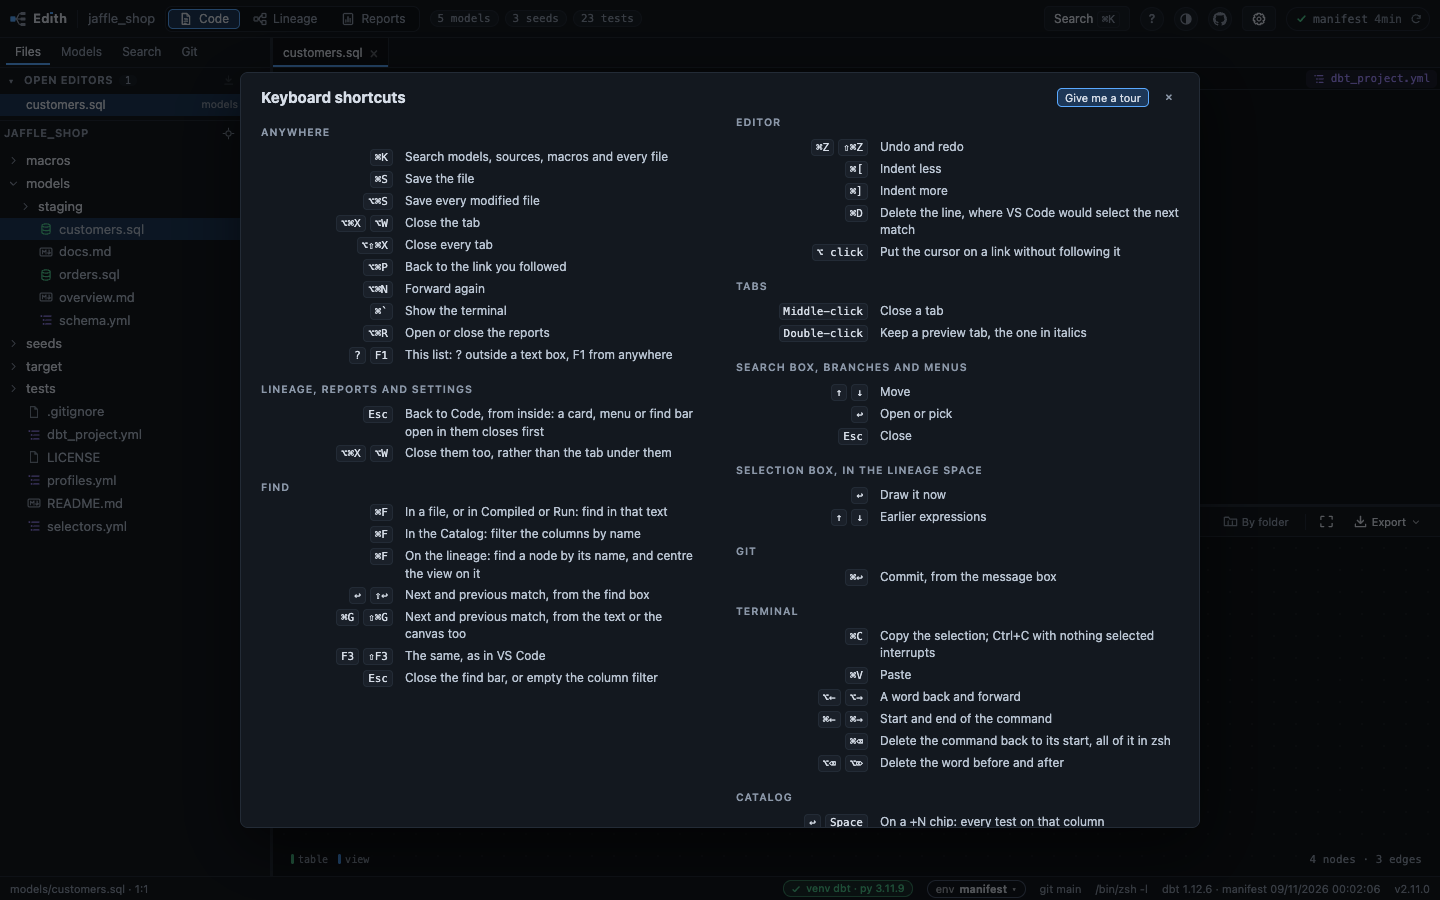
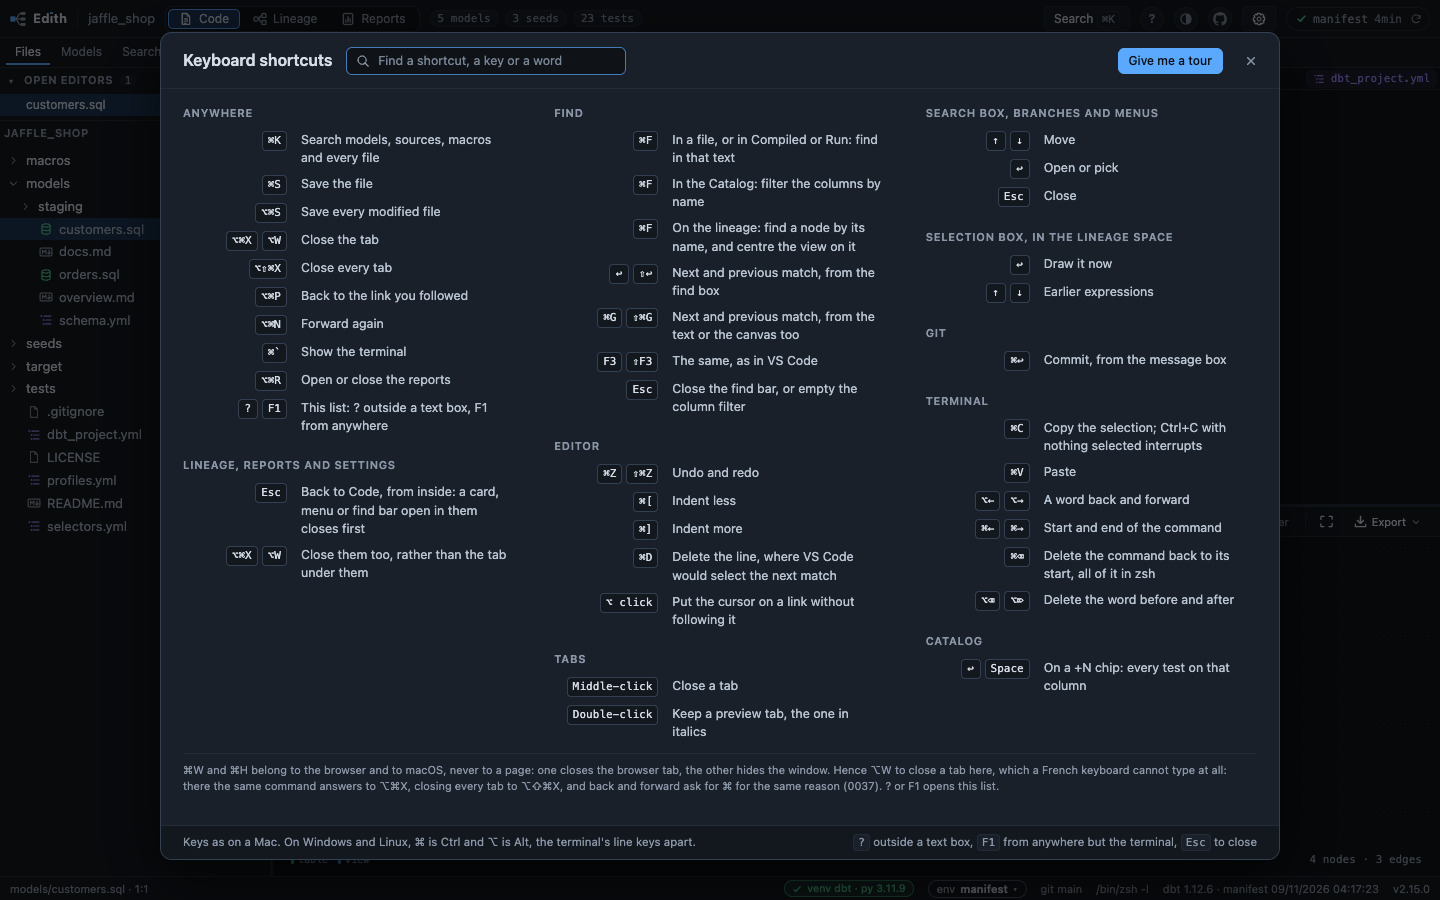
Show the shortcut list as a sheet in the window (#184)
The shortcut list was a box at most 84% of the window's height, which
cut its last group at the bottom, with two columns of keys, no way to
find one, and a long paragraph under them. It is now the sheet the
design draws: from under the top bar to above the status bar, its title,
a find box and **Give me a tour** held at the top, the groups in three
columns that scroll on their own, and a footer strip saying which keys
it draws. Typing filters the list.

## What changes for someone using it

| | Before | Now |
| --- | --- | --- |
| The sheet | 960px wide, at most 84% of the window high, its last rows cut | as wide as 1120px, from 32px under the top to 40px above the bottom; the head and the footer stay, the groups scroll between them |
| Finding a key | reading the list | a find box, focused when the list opens: a row stays when its words, its keys or its group's title hold what is typed, the first hit in its words marked; "No shortcut says “…”." when nothing does |
| The groups | two columns | three on a Mac, two on Windows and Linux, where the keys are written out (`Ctrl+Backspace`) |
| A key | a small flat chip | the design's chip: 20px high, bordered, on the sheet's own colour |
| Give me a tour | a small outlined button | the filled button of the design, beside the find box |
[…]

Changed region(s): [[0.0938, 0.0311, 0.9062, 0.9956], [0.9062, 0.9644, 0.9375, 0.9956]]

diff --git a/web/app.js b/web/app.js
@@ -20272,6 +20272,47 @@ function termLineRows(os) {
   return [];
 }
 
+/* What the list shows for what is typed in its find box. A row stays when its
+   text, one of its keys, or its group's title holds the query, whatever the
+   case; a group's title keeps all of its rows. A key is found by its label as
+   this machine draws it (`label`) and by its modifiers spelled out, as they are
+   said aloud: Cmd, Command and Option on a Mac, where the glyphs cannot be
+   typed, and Ctrl and Alt elsewhere, plus the key's own name (Enter, and Return
+   beside it on a Mac; ArrowUp, Backspace, Escape). Those are matched from the
+   start of a word, never inside one: "man" must not keep every Cmd row through
+   Command. keyCombo's own `Mod` and `+` are not searched, since they are in
+   nearly every row and hit none in particular. Only the first hit in a row's
+   text is marked, split into the parts before, at and after it: a key or a
+   title hit marks nothing. A blank query keeps everything. */
+function filterShortcuts(sheet, query, label, mac) {
+  const q = query.trim().toLowerCase();
+  // A French Mac's keys print alt, not the glyph (0037).
+  const said = mac
+    ? { Mod: 'cmd command', Alt: 'option alt', Shift: 'shift', Ctrl: 'control' }
+    : { Mod: 'ctrl', Alt: 'alt', Shift: 'shift', Ctrl: 'ctrl' };
+  const starts = (words) => words.split(' ').some((w) => w.startsWith(q));
+  const out = [];
+  for (const group of sheet) {
+    const titleHit = !!q && group.title.toLowerCase().includes(q);
+    const rows = [];
+    for (const [combos, what] of group.keys) {
+      const keys = combos.map((c) => label(c));
+      const at = q ? what.toLowerCase().indexOf(q) : -1;
+      const keyHit = !!q && combos.some((c, i) => {
+        const parts = c.split('+');
+        const name = parts.pop().toLowerCase();
+        return keys[i].toLowerCase().includes(q) || starts(name + (mac && name === 'enter' ? ' return' : ''))
+          || parts.some((m) => starts(said[m] || ''));
+      });
+      if (q && at < 0 && !keyHit && !titleHit) continue;
+      rows.push(at < 0 ? { keys, a: what, m: '', b: '' }
+        : { keys, a: what.slice(0, at), m: what.slice(at, at + q.length), b: what.slice(at + q.length) });
+    }
+    if (rows.length) out.push({ title: group.title, rows });
+  }
+  return out;
+}
+
 /* Whether a key pressed here is text: a box, the editor, the terminal. `?` is
    a shortcut only outside all three. */
 function isTyping(el) {
@@ -20288,8 +20329,13 @@ function toggleShortcuts() {
   if (built && !built.classList.contains('hidden')) return closeShortcuts();
   const box = built || buildShortcuts();
   S.keysReturn = document.activeElement;
+  // It opens on every shortcut, whatever was searched for last time.
+  const find = box.querySelector('.keys-find input');
+  find.value = '';
+  // Shown before it is drawn: a hidden box has no scroll to put back to the top.
   box.classList.remove('hidden');
-  box.querySelector('.keys-box').focus();
+  paintShortcuts(box);
+  find.focus();
 }
 
 /* Focus goes back to where the keys were typed, the editor usually. */
@@ -20313,36 +20359,39 @@ function buildShortcuts() {
   panel.setAttribute('aria-label', 'Keyboard shortcuts');
   const head = document.createElement('div');
   head.className = 'keys-head';
+  // Typing redraws the groups only: the head and the foot stay as they are, so
+  // the caret does not leave the box.
+  const find = document.createElement('label');
+  find.className = 'keys-find';
+  const input = document.createElement('input');
+  input.type = 'text';
+  input.placeholder = 'Find a shortcut, a key or a word';
+  input.spellcheck = false;
+  input.setAttribute('aria-label', 'Find a shortcut');
+  input.addEventListener('input', () => paintShortcuts(box));
+  find.append(strokeIcon('0 0 16 16', 'keys-ico', ['M7 2.25a4.75 4.75 0 1 0 0 9.5 4.75 4.75 0 0 0 0-9.5z', 'M10.5 10.5l3.5 3.5']), input);
   const close = document.createElement('button');
-  close.className = 'icon';
-  close.textContent = '×';
+  close.type = 'button';
+  close.className = 'keys-x';
   close.title = `Close (${keyLabel('Escape', IS_MAC)})`;
+  close.setAttribute('aria-label', 'Close');
+  close.append(strokeIcon('0 0 16 16', 'keys-ico', ['M4 4l8 8M12 4l-8 8']));
   close.addEventListener('click', closeShortcuts);
   // The tour lives here, where someone looking for what the page can do looks (0074).
   const tour = document.createElement('button');
   tour.type = 'button';
-  tour.className = 'btn sm primary';
+  tour.className = 'btn primary';
   tour.textContent = 'Give me a tour';
   tour.title = 'What each part of the page is for, on a model of this project. It runs nothing.';
   tour.addEventListener('click', startTour);
-  head.append(Object.assign(document.createElement('h2'), { textContent: 'Keyboard shortcuts' }),
+  head.append(Object.assign(document.createElement('h2'), { textContent: 'Keyboard shortcuts' }), find,
     Object.assign(document.createElement('div'), { className: 'grow' }), tour, close);
+  // The grid scrolls and its columns sit inside it: columns on the scrolling box
+  // itself would open more columns to the right, not scroll down, once the
+  // window is shorter than the list.
   const grid = document.createElement('div');
   grid.className = 'keys-grid';
-  for (const group of shortcutSheet(KEYS_OS)) {
-    const sec = document.createElement('section');
-    sec.append(h3(group.title));
-    for (const [combos, what] of group.keys) {
-      const row = document.createElement('div');
-      row.className = 'keys-row';
-      const keys = document.createElement('span');
-      keys.className = 'keys-k';
-      for (const combo of combos) keys.append(Object.assign(document.createElement('kbd'), { textContent: keyLabel(combo, IS_MAC) }));
-      row.append(keys, Object.assign(document.createElement('span'), { className: 'keys-what', textContent: what }));
-      sec.append(row);
-    }
-    grid.append(sec);
-  }
+  grid.append(Object.assign(document.createElement('div'), { className: 'keys-cols' }));
   // The question the list raises first: why not the key every other app uses.
   const note = document.createElement('p');
   note.className = 'keys-note';
@@ -20352,7 +20401,21 @@ function buildShortcuts() {
       + 'type at all: there the same command answers to ⌥⌘X, closing every tab to ⌥⇧⌘X, and back '
       + 'and forward ask for ⌘ for the same reason (0037). ? or F1 opens this list.'
     : 'Ctrl+W belongs to the browser, never to a page: it closes the browser tab. Hence Alt+W to close a tab here.';
-  panel.append(head, grid, note);
+  const foot = document.createElement('div');
+  foot.className = 'keys-foot';
+  const kbd = (text) => Object.assign(document.createElement('kbd'), { textContent: text });
+  const pressed = document.createElement('span');
+  pressed.append(kbd('?'), ' outside a text box, ', kbd('F1'), ' from anywhere but the terminal, ', kbd(keyLabel('Escape', IS_MAC)), ' to close');
+  // The list is drawn in this machine's keys, and the foot says how the other's
+  // read: the terminal's line keys are the exception, its own on each (0073).
+  foot.append(
+    Object.assign(document.createElement('span'), { textContent: IS_MAC
+      ? 'Keys as on a Mac. On Windows and Linux, ⌘ is Ctrl and ⌥ is Alt, the terminal\'s line keys apart.'
+      : 'Keys as on Windows and Linux. On a Mac, Ctrl is ⌘ and Alt is ⌥, the terminal\'s line keys apart.' }),
+    Object.assign(document.createElement('div'), { className: 'grow' }),
+    pressed);
+  grid.append(note);
+  panel.append(head, grid, foot);
   box.append(panel);
   box.addEventListener('mousedown', (e) => { if (e.target === box) closeShortcuts(); });
   // Only the list closes: the search box or a dialog under it stays open.
@@ -20364,6 +20427,39 @@ function buildShortcuts() {
   });
   document.body.append(box);
   return box;
+}
+
+/* The groups the find box leaves, drawn again in the columns; the note stays
+   under them, read after the groups and scrolled with them. */
+function paintShortcuts(box) {
+  const query = box.querySelector('.keys-find input').value;
+  const cols = box.querySelector('.keys-cols');
+  // Each query starts at the top of its hits, not where the last list was scrolled to.
+  box.querySelector('.keys-grid').scrollTop = 0;
+  const groups = filterShortcuts(shortcutSheet(KEYS_OS), query, (c) => keyLabel(c, IS_MAC), IS_MAC);
+  const nodes = [];
+  for (const group of groups) {
+    const sec = document.createElement('section');
+    sec.append(h3(group.title));
+    for (const row of group.rows) {
+      const line = document.createElement('div');
+      line.className = 'keys-row';
+      const keys = document.createElement('span');
+      keys.className = 'keys-k';
+      for (const k of row.keys) keys.append(Object.assign(document.createElement('kbd'), { textContent: k }));
+      const what = document.createElement('span');
+      what.className = 'keys-what';
+      what.append(row.a);
+      if (row.m) what.append(Object.assign(document.createElement('mark'), { textContent: row.m }), row.b);
+      line.append(keys, what);
+      sec.append(line);
+    }
+    nodes.push(sec);
+  }
+  if (!groups.length) {
+    nodes.push(Object.assign(document.createElement('p'), { className: 'keys-none', textContent: `No shortcut says \u201c${query.trim()}\u201d.` }));
+  }
+  cols.replaceChildren(...nodes);
 }
 
 /* What a close key closes: the panel when one is down, since the tab under

diff --git a/web/tests/keys.js b/web/tests/keys.js
@@ -103,6 +103,58 @@ check('elsewhere the shell reads xterm.js\'s, and nothing is added', termRows('o
   }); }); });
 });
 
+print('\n--- the find box ---');
+var macLabel = function (c) { return keyLabel(c, true); }, pcLabel = function (c) { return keyLabel(c, false); };
+var all = shortcutSheet('mac');
+var kept = function (rows) { return rows.map(function (g) { return g.title + ':' + g.rows.length; }); };
+check('a blank query keeps every group and row, marked nowhere',
+  JSON.stringify(kept(filterShortcuts(all, '  ', macLabel, true))) === JSON.stringify(all.map(function (g) { return g.title + ':' + g.keys.length; }))
+  && filterShortcuts(all, '', macLabel, true).every(function (g) { return g.rows.every(function (r) { return r.m === ''; }); }), true);
+var undo = filterShortcuts(all, 'undo', macLabel, true);
+check('a text hit is one row, marked with the case it was written in',
+  JSON.stringify(undo.map(function (g) { return [g.title, g.rows.length]; })), '[["Editor",1]]');
+check('  split before, at and after the hit', [undo[0].rows[0].a, undo[0].rows[0].m, undo[0].rows[0].b], ['', 'Undo', ' and redo']);
+check('  its keys are the Mac labels', undo[0].rows[0].keys, ['⌘Z', '⇧⌘Z']);
+var f3 = filterShortcuts(all, 'f3', macLabel, true);
+check('a key hit keeps the row, unmarked', f3.length === 1 && f3[0].rows.length === 1 && f3[0].rows[0].m === '' && f3[0].rows[0].a === 'The same, as in VS Code', true);
+var cmdG = filterShortcuts(all, '⌘g', macLabel, true);
+check('a Mac label is found as it is drawn', cmdG.length === 1 && cmdG[0].rows[0].keys.join(' ') === '⌘G ⇧⌘G', true);
+check('Ctrl is found on a PC label and not on a Mac one',
+  [filterShortcuts(all, 'ctrl+k', pcLabel, false).length > 0, filterShortcuts(all, 'ctrl+k', macLabel, true).length], [true, 0]);
+var term = filterShortcuts(all, 'terminal', macLabel, true);
+check('a group title keeps the whole group',
+  term.some(function (g) { return g.title === 'Terminal' && g.rows.length === all.filter(function (x) { return x.title === 'Terminal'; })[0].keys.length; }), true);
+check('  and marks a row only where its text holds the title too',
+  term.filter(function (g) { return g.title === 'Terminal'; })[0].rows.every(function (r) { return r.m === ''; }), true);
+var rowTexts = function (groups) { return [].concat.apply([], groups.map(function (g) { return g.rows.map(function (r) { return r.a + r.m + r.b; }); })); };
+check('keyCombo\'s own Mod is not searched: "mod" on a Mac keeps only what the text says',
+  rowTexts(filterShortcuts(all, 'mod', macLabel, true)).indexOf('Save the file') < 0, true);
+check('  nor is its +', rowTexts(filterShortcuts(all, '+', macLabel, true)).indexOf('Save the file') < 0, true);
+check('Cmd and Command find the Mac\'s Mod rows', [rowTexts(filterShortcuts(all, 'cmd', macLabel, true)).indexOf('Save the file') >= 0,
+  rowTexts(filterShortcuts(all, 'command', macLabel, true)).indexOf('Save the file') >= 0], [true, true]);
+check('Option finds the Mac\'s Alt rows', rowTexts(filterShortcuts(all, 'option', macLabel, true)).indexOf('Close the tab') >= 0, true);
+check('Control is not Cmd', rowTexts(filterShortcuts(all, 'control', macLabel, true)).indexOf('Save the file') < 0, true);
+check('on a PC Cmd and Option find nothing, and Alt finds Alt+W',
+  [filterShortcuts(all, 'cmd', pcLabel, false).length, filterShortcuts(all, 'option', pcLabel, false).length,
+    rowTexts(filterShortcuts(all, 'alt', pcLabel, false)).indexOf('Close the tab') >= 0], [0, 0, true]);
+var findG = filterShortcuts(all, 'find', macLabel, true).filter(function (g) { return g.title === 'Find'; })[0];
+check('a title hit keeps the Find group whole', findG && findG.rows.length, 7);
+check('  marking "find" where the text says it',
+  findG.rows.filter(function (r) { return r.m; }).map(function (r) { return r.a + '[' + r.m + ']' + r.b; }).pop(),
+  'Close the [find] bar, or empty the column filter');
+check('  and not "In the Catalog: filter..."', findG.rows.filter(function (r) { return r.a.indexOf('In the Catalog') === 0; })[0].m, '');
+check('Enter and Return find the Enter rows on a Mac', [rowTexts(filterShortcuts(all, 'enter', macLabel, true)).indexOf('Draw it now') >= 0,
+  rowTexts(filterShortcuts(all, 'return', macLabel, true)).indexOf('Draw it now') >= 0], [true, true]);
+check('  and Return is a Mac word only', rowTexts(filterShortcuts(all, 'return', pcLabel, false)).indexOf('Draw it now') < 0, true);
+check('Arrow finds the arrow rows on a Mac and on a PC', [rowTexts(filterShortcuts(all, 'arrow', macLabel, true)).indexOf('Earlier expressions') >= 0,
+  rowTexts(filterShortcuts(all, 'arrow', pcLabel, false)).indexOf('Earlier expressions') >= 0], [true, true]);
+check('Backspace finds the row that deletes the command', rowTexts(filterShortcuts(all, 'backspace', macLabel, true)).indexOf('Delete the command back to its start, all of it in zsh') >= 0, true);
+check('Alt is also a Mac word, for the keyboards that print it', rowTexts(filterShortcuts(all, 'alt', macLabel, true)).indexOf('Close the tab') >= 0, true);
+check('a spelled name is matched from the start of a word: "man" and "and" keep no Cmd row by Command',
+  [rowTexts(filterShortcuts(all, 'man', macLabel, true)).indexOf('Save the file') < 0, rowTexts(filterShortcuts(all, 'and', macLabel, true)).indexOf('Save the file') < 0], [true, true]);
+check('nothing matching leaves no group', filterShortcuts(all, 'zzqx', macLabel, true), []);
+check('the query is trimmed', filterShortcuts(all, ' undo ', macLabel, true)[0].rows[0].m, 'Undo');
+
 print('\n--- isTyping ---');
 check('a text box', isTyping({ tagName: 'INPUT', type: 'text' }), true);
 check('a search box', isTyping({ tagName: 'INPUT', type: 'search' }), true);

diff --git a/web/app.css b/web/app.css
@@ -3250,32 +3250,57 @@ span.envpill:hover { filter: none; }
   width: 9px; height: 9px; background: var(--warn); -webkit-mask: var(--m-warn) center / contain no-repeat; mask: var(--m-warn) center / contain no-repeat;
 }
 /* Above the palette and the modal: F1 can open it from either. */
-#shortcuts {
-  position: fixed; inset: 0; z-index: 72; background: var(--scrim);
-  display: flex; align-items: flex-start; justify-content: center; padding-top: 8vh;
-}
+#shortcuts { position: fixed; inset: 0; z-index: 72; background: var(--scrim); }
+/* A sheet no taller than the window: its title and find box held at the top,
+   the groups in columns that fill its width, the keys right-aligned before what
+   they do. Only the grid scrolls, so nothing is cut at the bottom. */
 .keys-box {
-  width: min(960px, 94vw); max-height: 84vh; overflow: auto; outline: none;
-  background: var(--bg-2); border: 1px solid var(--line); border-radius: 8px;
-  padding: 14px 20px 12px; box-shadow: var(--shadow-modal);
+  position: absolute; top: 32px; bottom: 40px; left: 0; right: 0; margin: 0 auto;
+  width: min(1120px, calc(100% - 48px)); display: flex; flex-direction: column; overflow: hidden; outline: none;
+  background: var(--bg-3); border: 1px solid var(--line-strong); border-radius: 12px; box-shadow: var(--shadow-modal);
 }
-.keys-head { display: flex; align-items: center; margin-bottom: 6px; }
-.keys-head h2 { margin: 0; font-size: 15px; }
-.keys-grid { column-width: 400px; column-gap: 32px; }
-.keys-grid section { break-inside: avoid; padding-bottom: 6px; }
-.keys-grid h3 {
-  font-size: 10.5px; color: var(--fg-dim); text-transform: uppercase;
-  letter-spacing: .9px; margin: 10px 0 6px; font-weight: 600;
+.keys-head {
+  flex: 0 0 auto; display: flex; align-items: center; gap: 14px; height: 56px;
+  padding: 0 14px 0 22px; border-bottom: 1px solid var(--line);
 }
-.keys-row { display: flex; align-items: baseline; gap: 12px; padding: 2px 0; font-size: 12px; }
-.keys-k { flex: 0 0 132px; display: flex; flex-wrap: wrap; gap: 4px; justify-content: flex-end; }
-/* Ctrl+Shift+G is three times the width of its Mac glyphs, and a pair of keys
-   that wraps reads as a row with no description. */
-.keys-box.pc .keys-k { flex-basis: 176px; }
-.keys-k kbd { color: var(--fg); white-space: nowrap; }
-.keys-what { color: var(--fg-2); }
+.keys-head h2 { margin: 0; font-size: 16px; font-weight: 600; }
+.keys-find {
+  display: flex; align-items: center; gap: 8px; width: 280px; height: 28px; padding: 0 9px;
+  border: 1px solid var(--line); border-radius: 6px; background: var(--bg); color: var(--fg-dim);
+}
+.keys-find:focus-within { border-color: rgba(var(--accent-rgb), .7); }
+.keys-find input { flex: 1 1 0; min-width: 0; border: 0; padding: 0; background: transparent; color: var(--fg); font: 12.5px var(--ui); outline: none; }
+.keys-find input::placeholder { color: var(--fg-mute); }
+.keys-ico { width: 14px; height: 14px; flex: 0 0 auto; fill: none; stroke: currentColor; stroke-width: 1.4; stroke-linecap: round; stroke-linejoin: round; }
+.keys-x { width: 28px; height: 28px; display: grid; place-items: center; padding: 0; border: 0; border-radius: 6px; background: none; color: var(--fg-dim); cursor: pointer; }
+.keys-x:hover { background: var(--bg-2); color: var(--fg); }
+.keys-head .btn.primary { height: 26px; padding: 0 10px; border-radius: 6px; font-size: 12px; background: var(--accent); border-color: transparent; color: var(--on-accent); font-weight: 500; }
+.keys-head .btn.primary:hover { filter: brightness(1.08); }
+.keys-grid { flex: 1 1 0; min-height: 0; overflow: auto; padding: 16px 22px 22px; }
+.keys-cols { columns: 3 300px; column-gap: 40px; }
+.keys-cols section { break-inside: avoid; margin: 0 0 18px; }
+.keys-cols h3 {
+  font-size: 11px; color: var(--fg-dim); text-transform: uppercase;
+  letter-spacing: .06em; margin: 0 0 6px; font-weight: 600;
+}
+.keys-row { display: grid; grid-template-columns: 104px minmax(0, 1fr); gap: 14px; align-items: baseline; padding: 4px 0; font-size: 12.5px; color: var(--fg-2); }
+.keys-k { display: flex; flex-wrap: wrap; gap: 4px; justify-content: flex-end; }
+/* Ctrl+Backspace and Ctrl+Delete, side by side, are the widest pair, three
+   times that of their Mac glyphs, and a pair of keys that wraps reads as a row
+   with no description. The room over is for the browser's zoom and for
+   Linux's wider monospace fonts. */
+.keys-box.pc .keys-row { grid-template-columns: 200px minmax(0, 1fr); }
+/* That key column leaves a third of the sheet too little room for the words, so
+   a PC's list is two columns wide where a Mac's is three. */
+.keys-box.pc .keys-cols { columns: 2 360px; }
+.keys-k kbd { font-size: 11px; line-height: 18px; height: 20px; padding: 0 5px; min-width: 20px; text-align: center; color: var(--fg); background: var(--bg-2); border-color: var(--line-strong); white-space: nowrap; }
+.keys-what mark { background: none; color: var(--accent); font-weight: 600; }
+.keys-none { margin: 0; color: var(--fg-dim); }
 .keys-note { margin: 8px 0 0; padding-top: 8px; border-top: 1px solid var(--line); font-size: 11px; color: var(--fg-dim); }
-.keys-head .btn { margin-right: 10px; }
+.keys-foot {
+  flex: 0 0 auto; display: flex; align-items: center; gap: 8px; height: 34px; padding: 0 22px;
+  border-top: 1px solid var(--line); background: var(--bg-2); font-size: 11.5px; color: var(--fg-dim);
+}
 
 /* ------------------------------------------------------------------ tour -- */
 /* Over the page and its menus, under the shortcut list, which starts it (0074).

diff --git a/docs/state.md b/docs/state.md
@@ -2834,7 +2834,7 @@ of its own, and each panel updates the tour, its page under
       the top bar re-folds on it.
 37. **The rest of the redesign, one pull request each.** ~~The depth in dbt's
     syntax~~ (2.9.0, 0158), ~~the Lineage space~~ (2.11.0, 0160), ~~column roles in the box~~ (2.13.0, 0162),
-    ~~the settings~~ (2.14.0, 0163), shortcuts, ~~Jobs~~ (2.10.0, 0159), ~~the terminal~~ (2.12.0, 0161), Compiled,
+    ~~the settings~~ (2.14.0, 0163), ~~shortcuts~~ (2.15.0), ~~Jobs~~ (2.10.0, 0159), ~~the terminal~~ (2.12.0, 0161), Compiled,
     Git, Catalog, Reports and the design docs.
 38. **The C runtime of the Windows `.exe` (0149).** Link it statically
     (`+crt-static` for the `*-pc-windows-msvc` targets) so the `.exe` imports
@@ -3009,6 +3009,16 @@ of its own, and each panel updates the tour, its page under
       lineage choice, a profile and target picker, Snowflake's account line,
       the GitHub "Open" button (the GitHub button's preview, step 21), a `.env`
       value on a line, and a Change button for the Python.
+52. **The shortcut sheet's limits (2.15.0).**
+    - The list is drawn whole and again on every key typed, not virtualised;
+      the ten groups are cheap, but a much longer list would want it.
+    - The find box searches the rows, the keys and the group titles, not the
+      footer or the note under the groups.
+    - A window too short for the head and the foot leaves the groups a few
+      lines to scroll in.
+    - On Windows and Linux the list is two columns wide, not the board's
+      three: the keys are written out there (`Ctrl+Backspace`), and three
+      columns left the words a few characters a line.
 
 Left by the pull requests of 2026-10-14, each a known limit written in
 its pull request, unranked:

diff --git a/docs/features/editor.md b/docs/features/editor.md
@@ -178,8 +178,15 @@ amber, and `Escape` closes the bar with the view left where it is. Only what the
 canvas draws is searched: `Cmd/Ctrl + K` searches the whole project.
 
 In the terminal, `Cmd/Ctrl + F` is the browser's own find. `?` outside a text
-box, `F1` from anywhere, or the `?` button in the top bar lists every shortcut,
-with the keys of the machine you are on.
+box, `F1` from anywhere but the terminal, or the `?` button in the top bar lists every shortcut,
+with the keys of the machine you are on, in a sheet inside the window: the
+groups in columns, the keys before what they do, and a find box that has the
+focus as it opens. Typing there keeps the rows whose text, keys or group title
+hold it, the word marked, and the sheet opens on every shortcut each time. A
+footer says which keys are drawn and how the other system's read, the
+terminal's line keys apart. `F1`, `Esc`, the × or a click outside closes the
+sheet and gives the focus back; a second `?` is typed into the find box, which
+has the focus.
 
 ## Tabs
 

diff --git a/CHANGELOG.md b/CHANGELOG.md
@@ -13,6 +13,12 @@ points at the decision behind it. A version's date is the day its bump merged,
 which tags and releases it with its section here as the notes (0045): the
 newest dated heading has to be the version `Cargo.toml` names.
 
+## 2.15.0 - 2026-11-09
+
+- Show the shortcut list as a sheet inside the window, with a find box that
+  filters it by key, word or group, the groups in columns and a footer saying
+  which keys it draws.
+
 ## 2.14.0 - 2026-11-09
 
 - Lay the settings out as one column of cards, a setting's name and why on the
